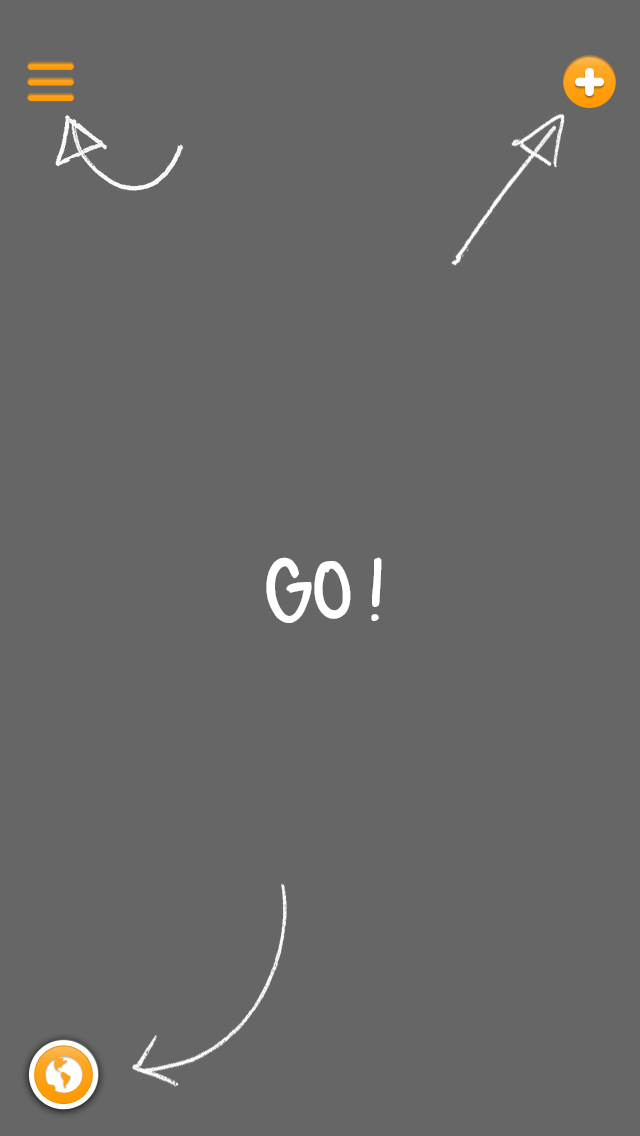
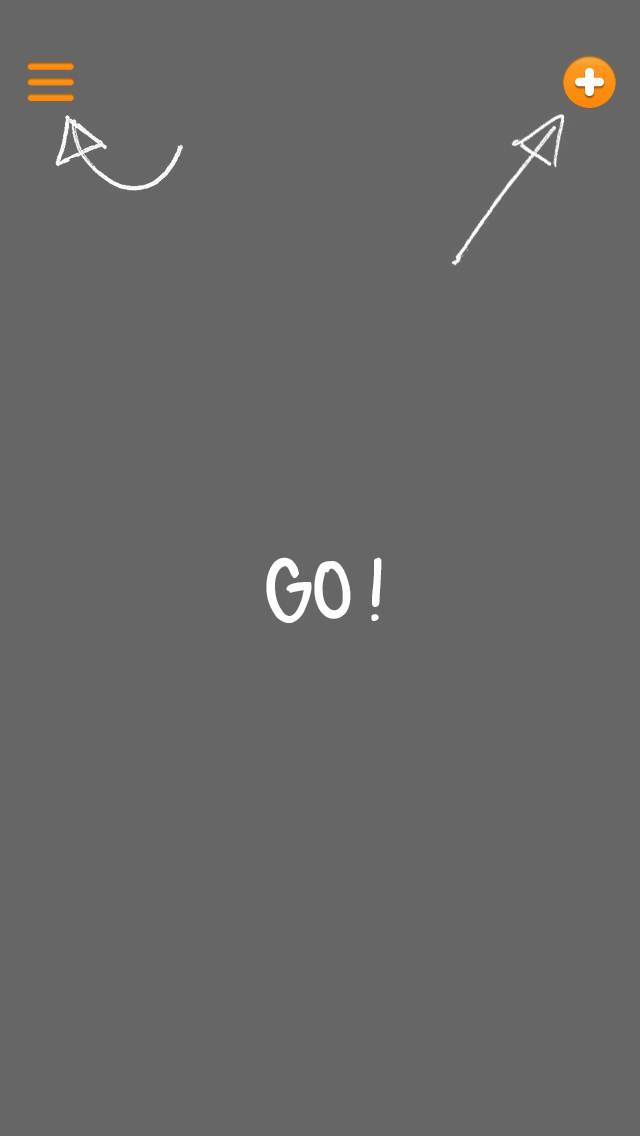
Modification de l'overlay: suppression de l'aide à propos du Feed d'actualités.

diff --git a/Moment/src/Controllers/TimeLine/TimeLineViewController.m b/Moment/src/Controllers/TimeLine/TimeLineViewController.m
@@ -1637,7 +1637,7 @@ shouldLoadEventsFromFacebook:(BOOL)loadEvents
     
     
     
-    if ([[VersionControl sharedInstance] isIphone5]) {
+    /*if ([[VersionControl sharedInstance] isIphone5]) {
         UILabel *overlay_label3_1 = [[UILabel alloc] initWithFrame:CGRectMake(10, 380, 260, 30)];
         UILabel *overlay_label3_2 = [[UILabel alloc] initWithFrame:CGRectMake(10, 400, 260, 30)];
         [overlay_label3_1 setBackgroundColor:[UIColor clearColor]];
@@ -1673,7 +1673,7 @@ shouldLoadEventsFromFacebook:(BOOL)loadEvents
         
         [self.overlay addSubview:overlay_label3_1];
         [self.overlay addSubview:overlay_label3_2];
-    }
+    }*/
 }
 
 - (void)hideTutorialOverlay {
